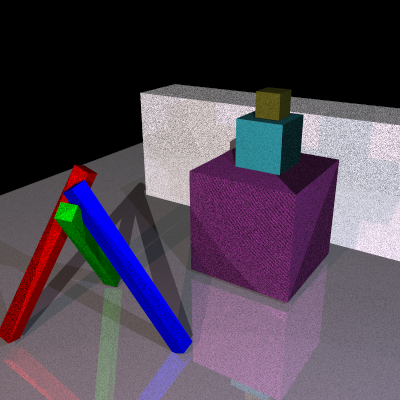
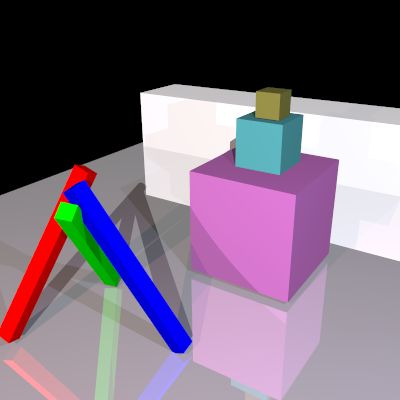
problem fixed, now inspecting transparency

diff --git a/src/base/rayCalc.hpp b/src/base/rayCalc.hpp
@@ -34,7 +34,7 @@ gl::vec3 getRayColor(const Ray &ray, const ObjectList &prims, uint max_depth, co
     // calculate ambient and diffuse color
     for (const auto &light : lights.get())
     {
-        gl::vec3 light_dir(0.0f, 0.0f, -1.0f);
+        gl::vec3 light_dir(0.0f, 0.0f, 0.0f);
 
         if (light->type == LightType::POINT_LIGHT)
         {
@@ -74,13 +74,13 @@ gl::vec3 getRayColor(const Ray &ray, const ObjectList &prims, uint max_depth, co
     local_diff *= (1 - material->ktran);
 
     // if hits a transparent surface, generate a refraction ray
-    if (hit_record->material->ktran != 0.0f)
+    if (hit_record->material->ktran != 0.f)
     {
         gl::vec3 out_refract_dir = gl::refract(ray.getDirection(), hit_record->normal, 1.5);
         if (out_refract_dir != gl::vec3(0.f))
         {
             // this is used for avoid self-intersection
-            Ray out_refract(hit_record->position, out_refract_dir);
+            Ray out_refract(hit_record->position + 1e-4 * normal, out_refract_dir);
             color += material->ktran * getRayColor(out_refract, prims, max_depth - 1, lights);
         }
     }
@@ -90,7 +90,7 @@ gl::vec3 getRayColor(const Ray &ray, const ObjectList &prims, uint max_depth, co
     {
         gl::vec3 out_reflect_dir = gl::reflect(ray.getDirection(), hit_record->normal);
         // this is used for avoid self-intersection
-        Ray out_reflect(hit_record->position, out_reflect_dir);
+        Ray out_reflect(hit_record->position + 1e-4 * normal, out_reflect_dir);
         color += material->spec_color.x() * getRayColor(out_reflect, prims, max_depth - 1, lights);
     }
 

diff --git a/src/base/objectList.hpp b/src/base/objectList.hpp
@@ -32,7 +32,7 @@ public:
     };
 
     // this determins the closest object that the ray hits
-    HitRecord *hit(const Ray &ray, float tmin = 0.0, float tmax = 10000.f) const
+    HitRecord *hit(const Ray &ray, float tmin = 0.0001, float tmax = 10000.f) const
     {
 
         HitRecord *hit_record = nullptr;

diff --git a/src/unit_test.cpp b/src/unit_test.cpp
@@ -55,7 +55,7 @@ int main()
     }
 
     // fb.gaussianBlur(3, 1.0f);
-    fb.writeToFile("../test.png",1.3f);
+    fb.writeToFile("../test.png",2.2f);
 
     end = std::chrono::system_clock::now();
     duration = end - start;
